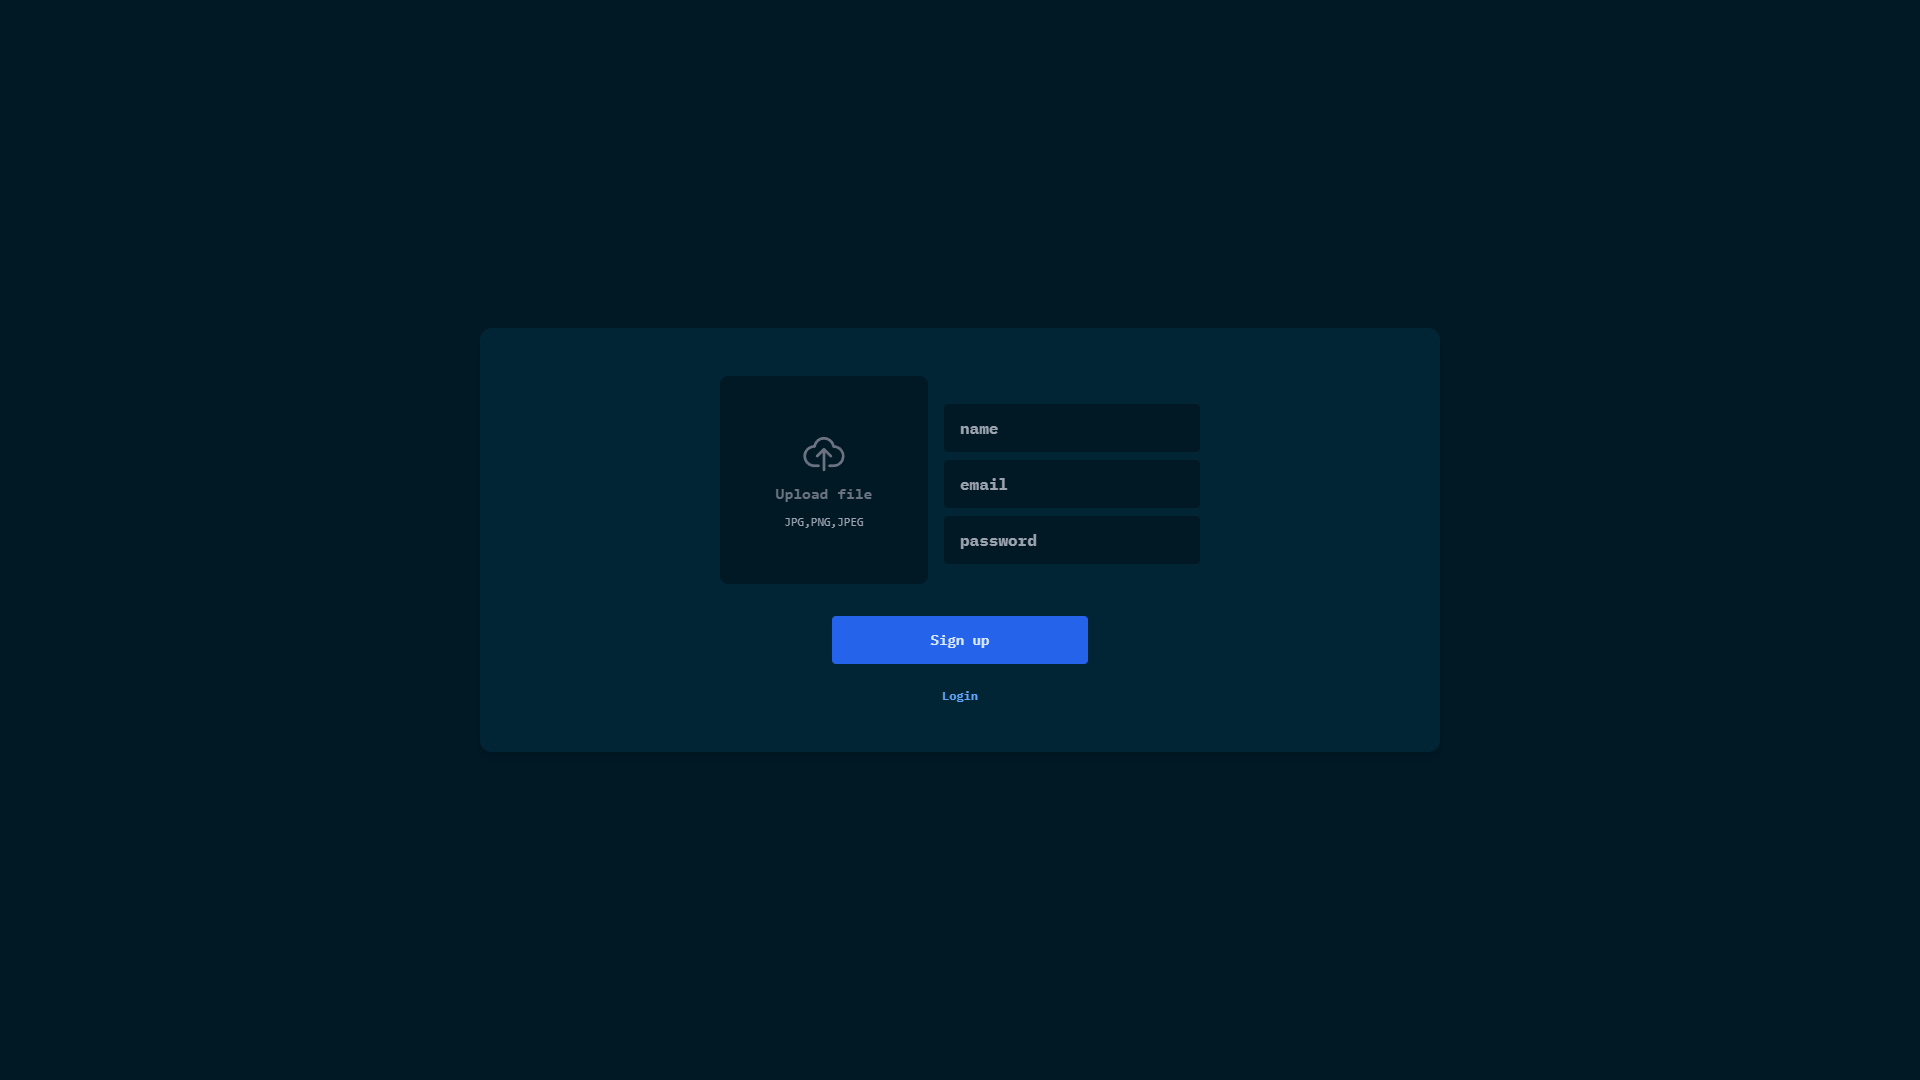
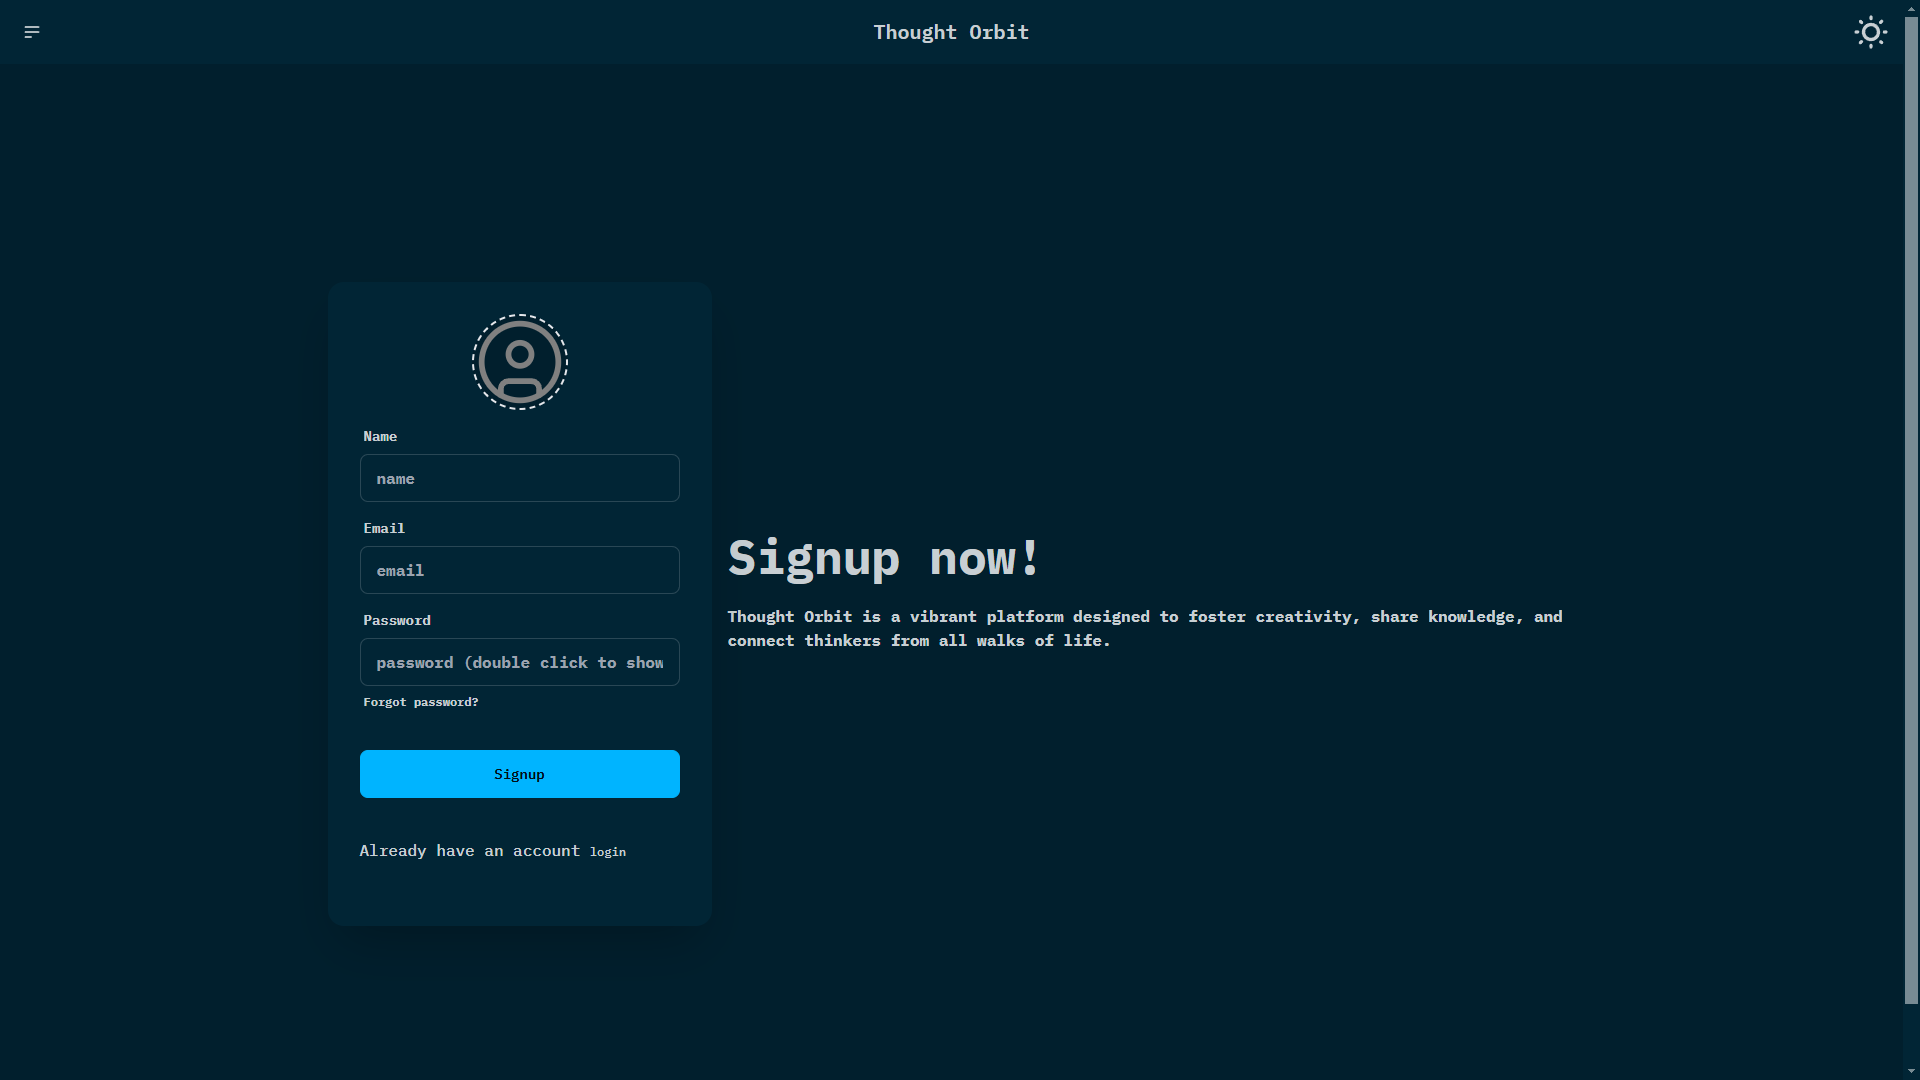
signup page changed

diff --git a/public/styles/tailwind.css b/public/styles/tailwind.css
@@ -1182,36 +1182,6 @@ html {
   scrollbar-width: initial;
 }
 
-.alert {
-  display: grid;
-  width: 100%;
-  grid-auto-flow: row;
-  align-content: flex-start;
-  align-items: center;
-  justify-items: center;
-  gap: 1rem;
-  text-align: center;
-  border-radius: var(--rounded-box, 1rem);
-  border-width: 1px;
-  --tw-border-opacity: 1;
-  border-color: var(--fallback-b2,oklch(var(--b2)/var(--tw-border-opacity)));
-  padding: 1rem;
-  --tw-text-opacity: 1;
-  color: var(--fallback-bc,oklch(var(--bc)/var(--tw-text-opacity)));
-  --alert-bg: var(--fallback-b2,oklch(var(--b2)/1));
-  --alert-bg-mix: var(--fallback-b1,oklch(var(--b1)/1));
-  background-color: var(--alert-bg);
-}
-
-@media (min-width: 640px) {
-  .alert {
-    grid-auto-flow: column;
-    grid-template-columns: auto minmax(auto,1fr);
-    justify-items: start;
-    text-align: start;
-  }
-}
-
 .avatar {
   position: relative;
   display: inline-flex;
@@ -2612,10 +2582,6 @@ html {
   margin-right: auto;
 }
 
-.mb-2 {
-  margin-bottom: 0.5rem;
-}
-
 .mb-3\.5 {
   margin-bottom: 0.875rem;
 }
@@ -2624,24 +2590,12 @@ html {
   margin-bottom: 1rem;
 }
 
-.mt-0 {
-  margin-top: 0px;
-}
-
-.mt-2 {
-  margin-top: 0.5rem;
-}
-
 .mt-3 {
   margin-top: 0.75rem;
 }
 
 .mt-6 {
   margin-top: 1.5rem;
-}
-
-.mt-8 {
-  margin-top: 2rem;
 }
 
 .flex {
@@ -2672,10 +2626,6 @@ html {
   height: 1.25rem;
 }
 
-.h-52 {
-  height: 13rem;
-}
-
 .h-8 {
   height: 2rem;
 }
@@ -2692,12 +2642,12 @@ html {
   width: 2.5rem;
 }
 
-.w-11 {
-  width: 2.75rem;
-}
-
 .w-12 {
   width: 3rem;
+}
+
+.w-24 {
+  width: 6rem;
 }
 
 .w-5 {
@@ -2706,10 +2656,6 @@ html {
 
 .w-52 {
   width: 13rem;
-}
-
-.w-64 {
-  width: 16rem;
 }
 
 .w-8 {
@@ -2724,24 +2670,12 @@ html {
   min-width: 30%;
 }
 
-.min-w-\[50\%\] {
-  min-width: 50%;
-}
-
 .max-w-\[50\%\] {
   max-width: 50%;
 }
 
-.max-w-\[80\%\] {
-  max-width: 80%;
-}
-
 .max-w-lg {
   max-width: 32rem;
-}
-
-.max-w-md {
-  max-width: 28rem;
 }
 
 .max-w-sm {
@@ -2750,10 +2684,6 @@ html {
 
 .shrink-0 {
   flex-shrink: 0;
-}
-
-.cursor-pointer {
-  cursor: pointer;
 }
 
 .flex-col {
@@ -2776,10 +2706,6 @@ html {
   overflow-y: auto;
 }
 
-.rounded {
-  border-radius: 0.25rem;
-}
-
 .rounded-box {
   border-radius: var(--rounded-box, 1rem);
 }
@@ -2792,21 +2718,12 @@ html {
   border-radius: 0.5rem;
 }
 
-.rounded-xl {
-  border-radius: 0.75rem;
-}
-
 .border-2 {
   border-width: 2px;
 }
 
 .border-dashed {
   border-style: dashed;
-}
-
-.border-base-300 {
-  --tw-border-opacity: 1;
-  border-color: var(--fallback-b3,oklch(var(--b3)/var(--tw-border-opacity, 1)));
 }
 
 .bg-base-100 {
@@ -2839,32 +2756,12 @@ html {
   background-color: rgb(254 226 226 / var(--tw-bg-opacity, 1));
 }
 
-.bg-contain {
-  background-size: contain;
-}
-
-.bg-center {
-  background-position: center;
-}
-
-.bg-no-repeat {
-  background-repeat: no-repeat;
-}
-
 .fill-current {
   fill: currentColor;
 }
 
-.fill-gray-500 {
-  fill: #6b7280;
-}
-
 .p-10 {
   padding: 2.5rem;
-}
-
-.p-12 {
-  padding: 3rem;
 }
 
 .p-2 {
@@ -2880,16 +2777,6 @@ html {
   padding-right: 0.75rem;
 }
 
-.px-4 {
-  padding-left: 1rem;
-  padding-right: 1rem;
-}
-
-.px-6 {
-  padding-left: 1.5rem;
-  padding-right: 1.5rem;
-}
-
 .py-2 {
   padding-top: 0.5rem;
   padding-bottom: 0.5rem;
@@ -2900,26 +2787,18 @@ html {
   padding-bottom: 1.5rem;
 }
 
+.py-8 {
+  padding-top: 2rem;
+  padding-bottom: 2rem;
+}
+
 .text-center {
   text-align: center;
-}
-
-.align-middle {
-  vertical-align: middle;
-}
-
-.font-\[sans-serif\] {
-  font-family: sans-serif;
 }
 
 .text-5xl {
   font-size: 3rem;
   line-height: 1;
-}
-
-.text-base {
-  font-size: 1rem;
-  line-height: 1.5rem;
 }
 
 .text-lg {
@@ -2935,11 +2814,6 @@ html {
 .text-xl {
   font-size: 1.25rem;
   line-height: 1.75rem;
-}
-
-.text-xs {
-  font-size: 0.75rem;
-  line-height: 1rem;
 }
 
 .font-bold {
@@ -2964,24 +2838,9 @@ html {
   color: rgb(219 234 254 / var(--tw-text-opacity, 1));
 }
 
-.text-gray-400 {
-  --tw-text-opacity: 1;
-  color: rgb(156 163 175 / var(--tw-text-opacity, 1));
-}
-
-.text-gray-500 {
-  --tw-text-opacity: 1;
-  color: rgb(107 114 128 / var(--tw-text-opacity, 1));
-}
-
 .text-green-500 {
   --tw-text-opacity: 1;
   color: rgb(34 197 94 / var(--tw-text-opacity, 1));
-}
-
-.text-primary {
-  --tw-text-opacity: 1;
-  color: var(--fallback-p,oklch(var(--p)/var(--tw-text-opacity, 1)));
 }
 
 .shadow {
@@ -2993,12 +2852,6 @@ html {
 .shadow-2xl {
   --tw-shadow: 0 25px 50px -12px rgb(0 0 0 / 0.25);
   --tw-shadow-colored: 0 25px 50px -12px var(--tw-shadow-color);
-  box-shadow: var(--tw-ring-offset-shadow, 0 0 #0000), var(--tw-ring-shadow, 0 0 #0000), var(--tw-shadow);
-}
-
-.shadow-lg {
-  --tw-shadow: 0 10px 15px -3px rgb(0 0 0 / 0.1), 0 4px 6px -4px rgb(0 0 0 / 0.1);
-  --tw-shadow-colored: 0 10px 15px -3px var(--tw-shadow-color), 0 4px 6px -4px var(--tw-shadow-color);
   box-shadow: var(--tw-ring-offset-shadow, 0 0 #0000), var(--tw-ring-shadow, 0 0 #0000), var(--tw-shadow);
 }
 
@@ -3026,12 +2879,6 @@ input:user-invalid {
 .focus\:outline-none:focus {
   outline: 2px solid transparent;
   outline-offset: 2px;
-}
-
-.focus\:ring-2:focus {
-  --tw-ring-offset-shadow: var(--tw-ring-inset) 0 0 0 var(--tw-ring-offset-width) var(--tw-ring-offset-color);
-  --tw-ring-shadow: var(--tw-ring-inset) 0 0 0 calc(2px + var(--tw-ring-offset-width)) var(--tw-ring-color);
-  box-shadow: var(--tw-ring-offset-shadow), var(--tw-ring-shadow), var(--tw-shadow, 0 0 #0000);
 }
 
 .focus\:ring-4:focus {
@@ -3065,10 +2912,6 @@ input:user-invalid {
 }
 
 @media (min-width: 1024px) {
-  .lg\:flex {
-    display: flex;
-  }
-
   .lg\:flex-row {
     flex-direction: row;
   }
@@ -3077,22 +2920,8 @@ input:user-invalid {
     flex-direction: row-reverse;
   }
 
-  .lg\:gap-4 {
-    gap: 1rem;
-  }
-
   .lg\:text-left {
     text-align: left;
-  }
-}
-
-@media (min-width: 1280px) {
-  .xl\:flex {
-    display: flex;
-  }
-
-  .xl\:gap-4 {
-    gap: 1rem;
   }
 }
 

diff --git a/public/scripts/landing-auth.js b/public/scripts/landing-auth.js
@@ -36,9 +36,24 @@
       duration: 400,
       easing: 'ease',
       once: false,
-      mirror: false,
+      mirror: true,
       anchorPlacement: 'top-bottom'
     });
   }
   onload = onhashchange;
+
+  document.getElementById('password').ondblclick = (event) => {
+    event.target.type = (event.target.type == "text") ? "password" : "text";
+  }
+
+  document.getElementById('avatar').oninput = (event) => {
+    try {
+      if (event.target.files && (event.target.files)[0].size <= (5 * 1024 * 1024)) {
+        document.querySelector('img#avatar-preview').src = URL.createObjectURL(event.target.files[0]);
+      } else window.alert('file is larger than 5 MB');
+    } catch (error) {
+      window.alert('file is larger than 5 MB');
+    }
+  }
+
 })();

diff --git a/src/routes/routes/sign_up/index.ts b/src/routes/routes/sign_up/index.ts
@@ -14,7 +14,7 @@ router
     abortOnLimit: true
   }))
   .route('/signup')
-  .get(async (_: express.Request, res: express.Response) => res.render('sign_up/index'))
+  .get(async (_: express.Request, res: express.Response) => res.redirect('/#user-signup'))
   .post(invalidMimeType, invalidCredentials, duplicateCredentialError, setCookie);
 router.use(error_handler);
 export default router;
